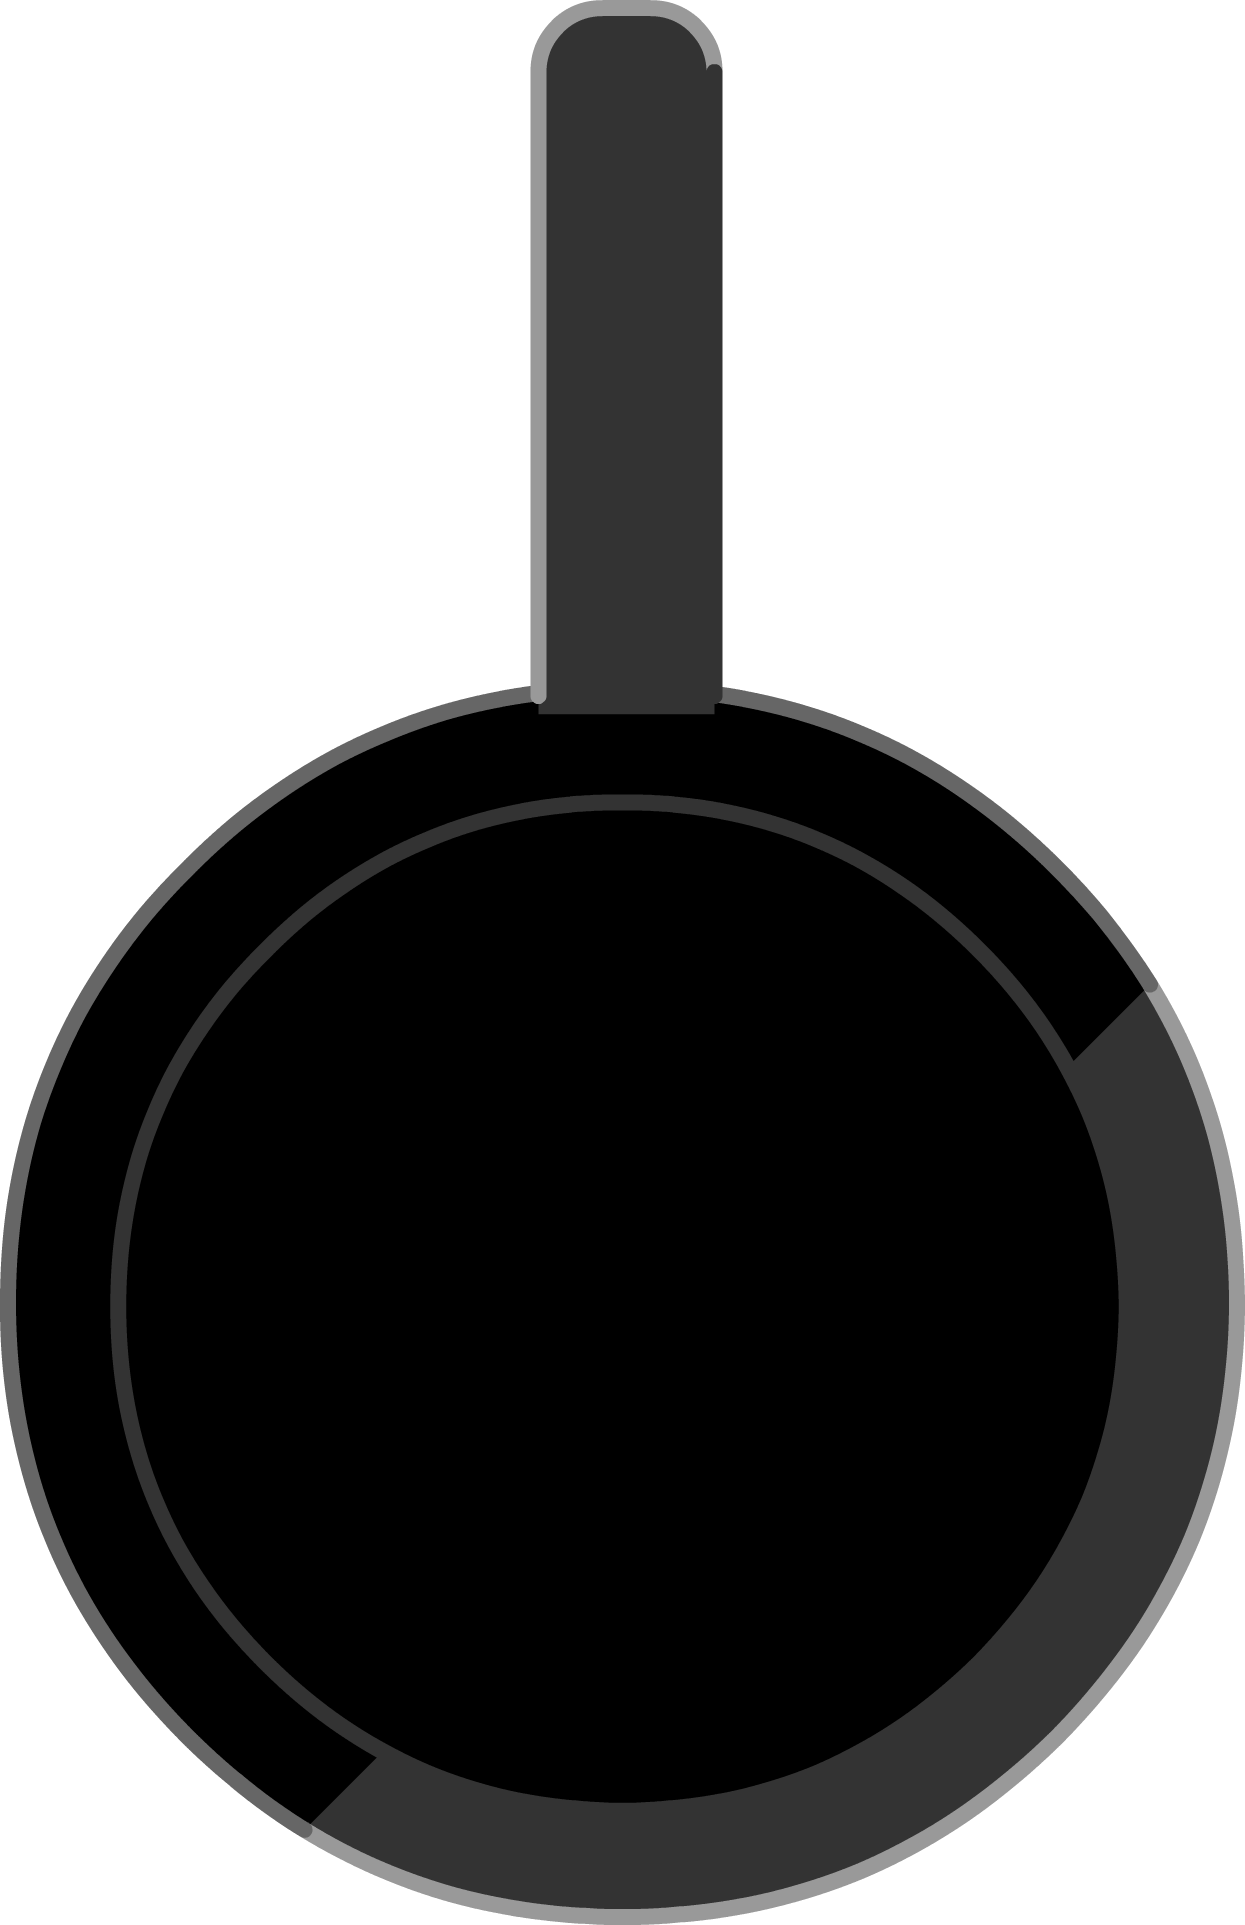
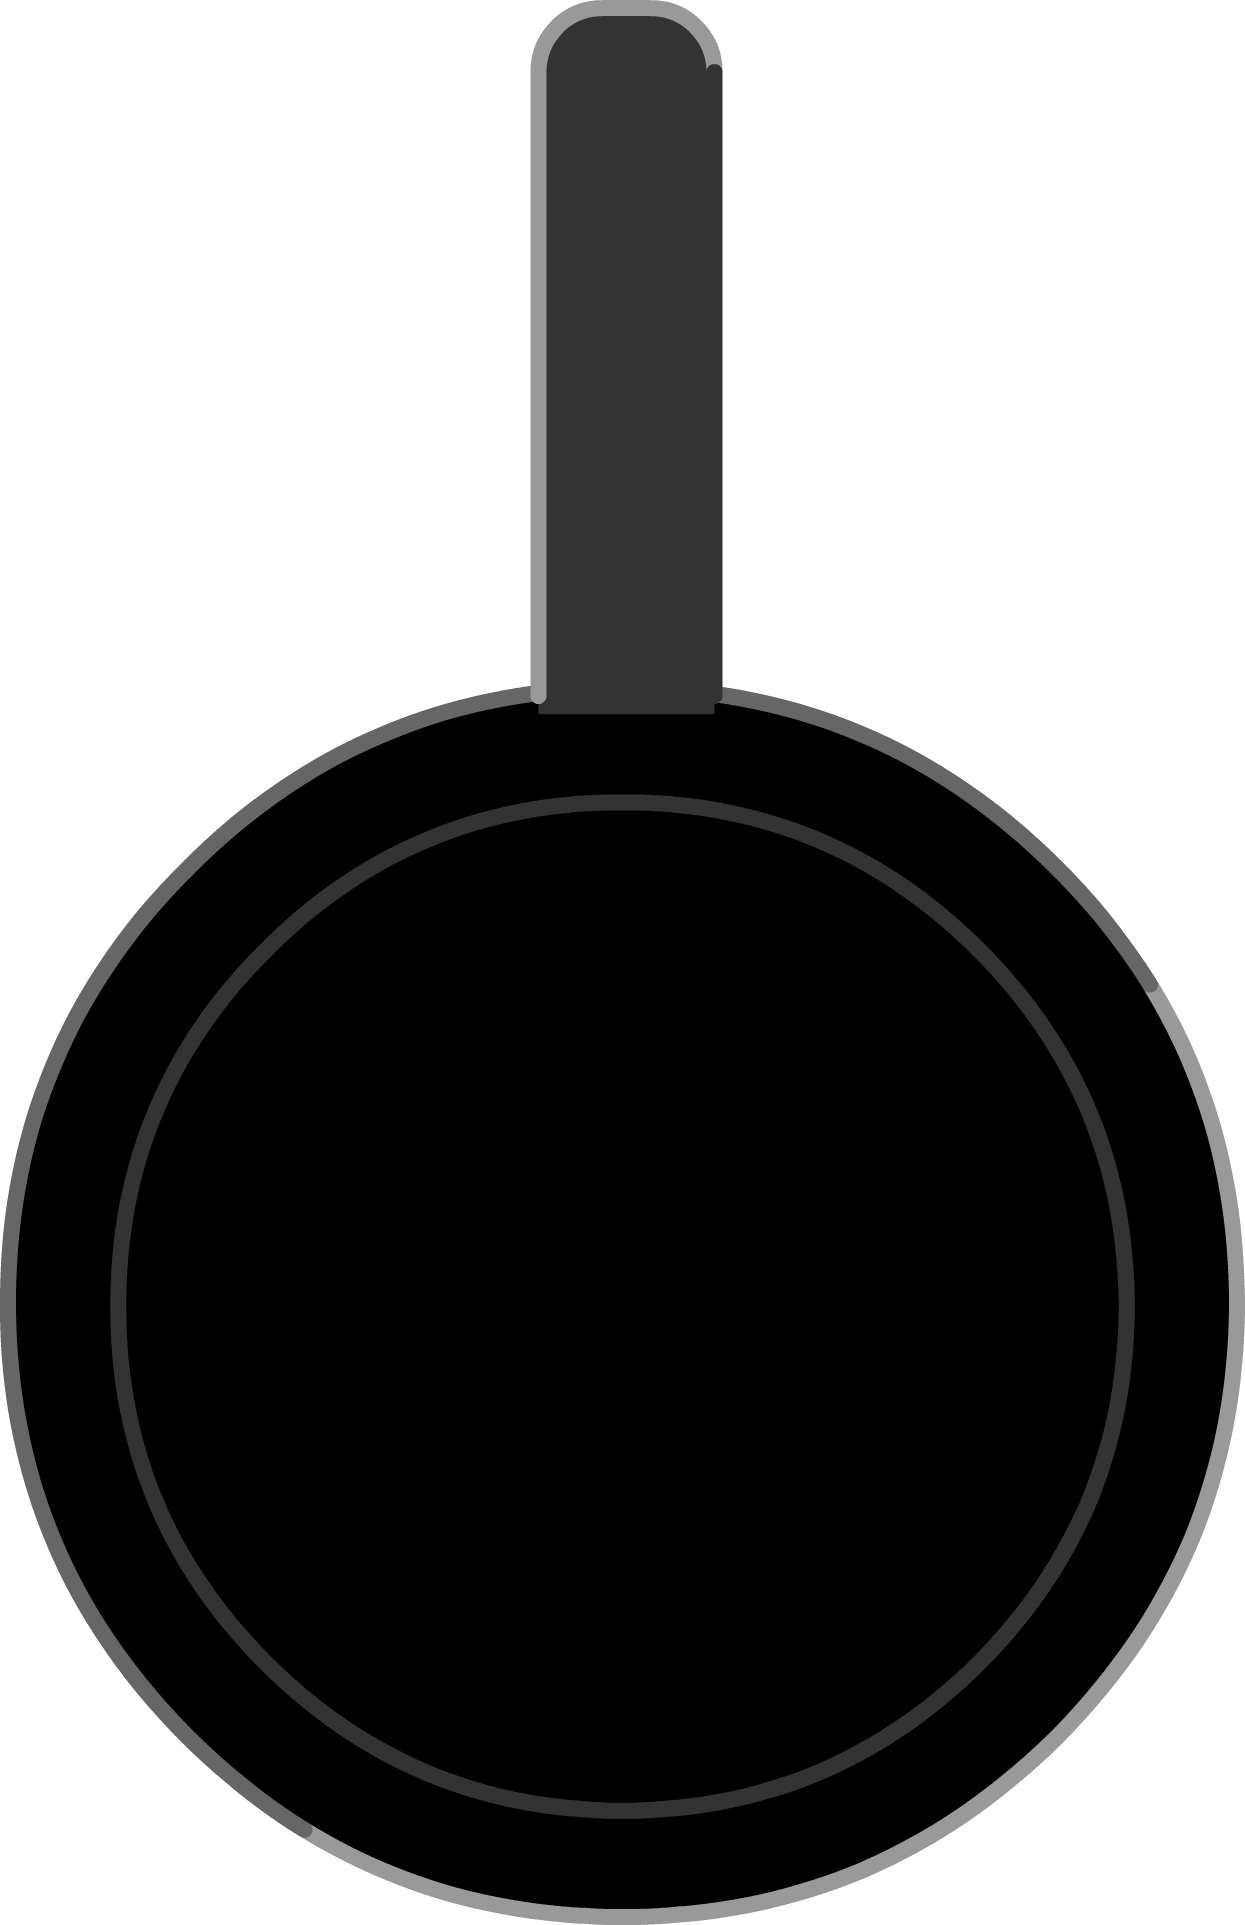
Frying Pan: shows no highlight for Jennifer.

Changed region(s): [[0.2442, 0.4987, 1.0, 0.9974]]

diff --git a/todo.md b/todo.md
@@ -35,6 +35,7 @@
 - [x] Delete button on mobile.
 - [x] 2017-07-22 Jennifer Russ: Hint????
 - [ ] 2017-07-22 Jennifer Russ: Is the radial progress meter moving?
+	- [x] Pan has no highlight on rim.
 - [ ] 2017-07-22 Jennifer Russ: Show which letter buttons were selected?
 - [ ] 2017-07-22 Jennifer Russ: Shuffle?
 - [ ] 2017-07-22 Jennifer Russ: Harder when letters in a circle than in a row.
